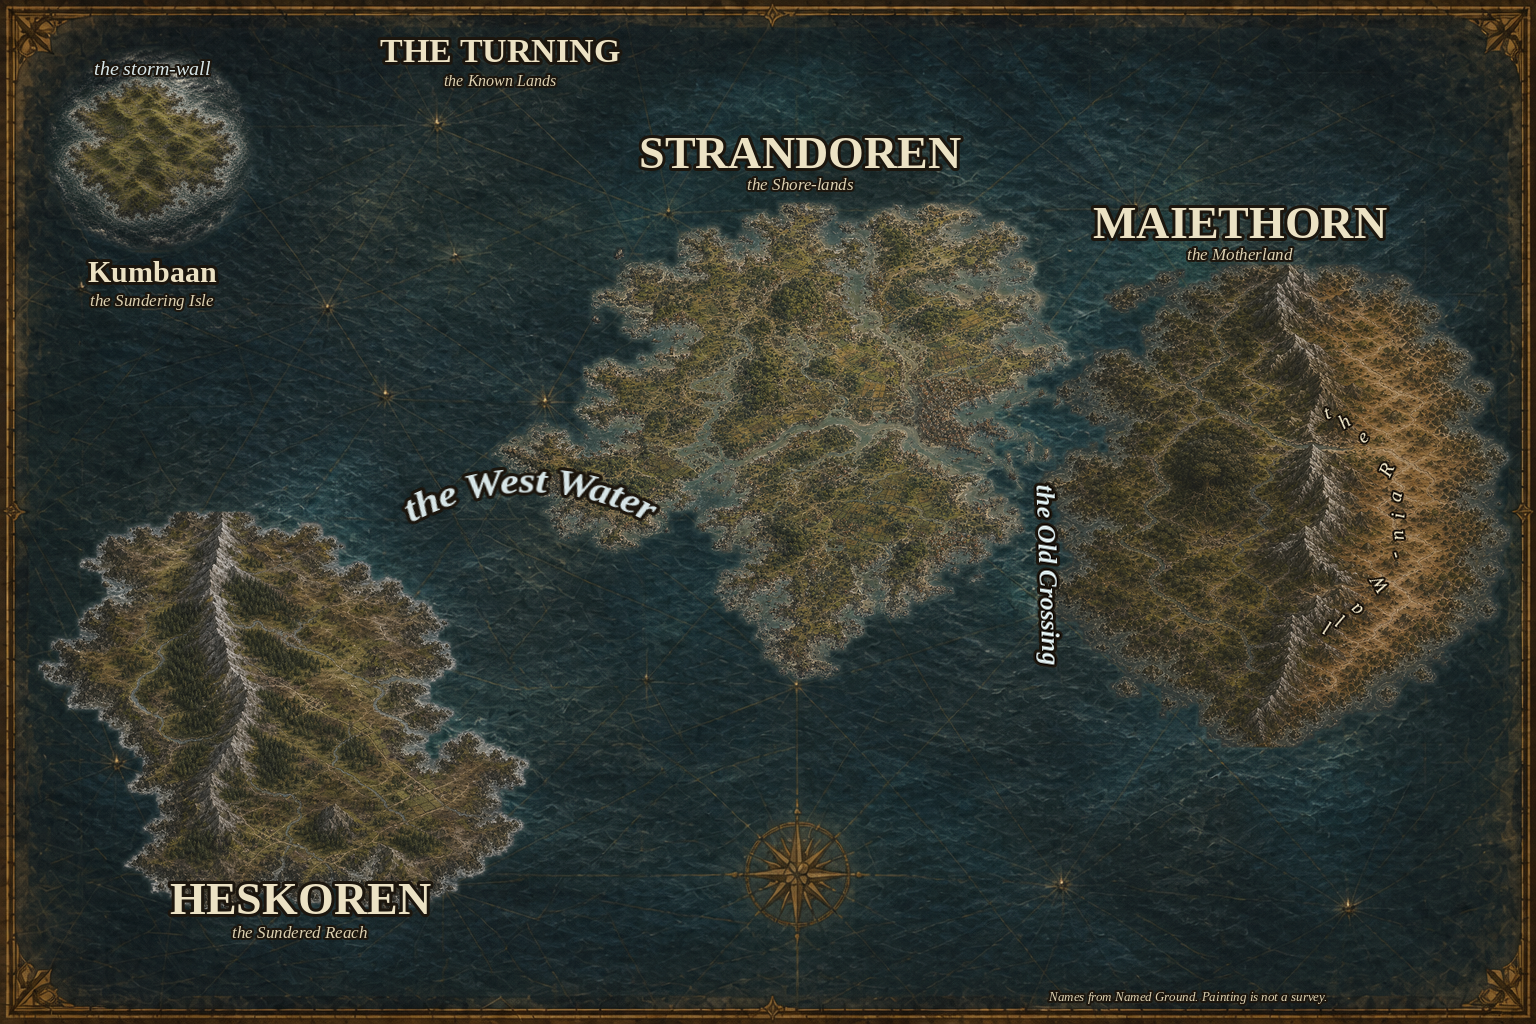
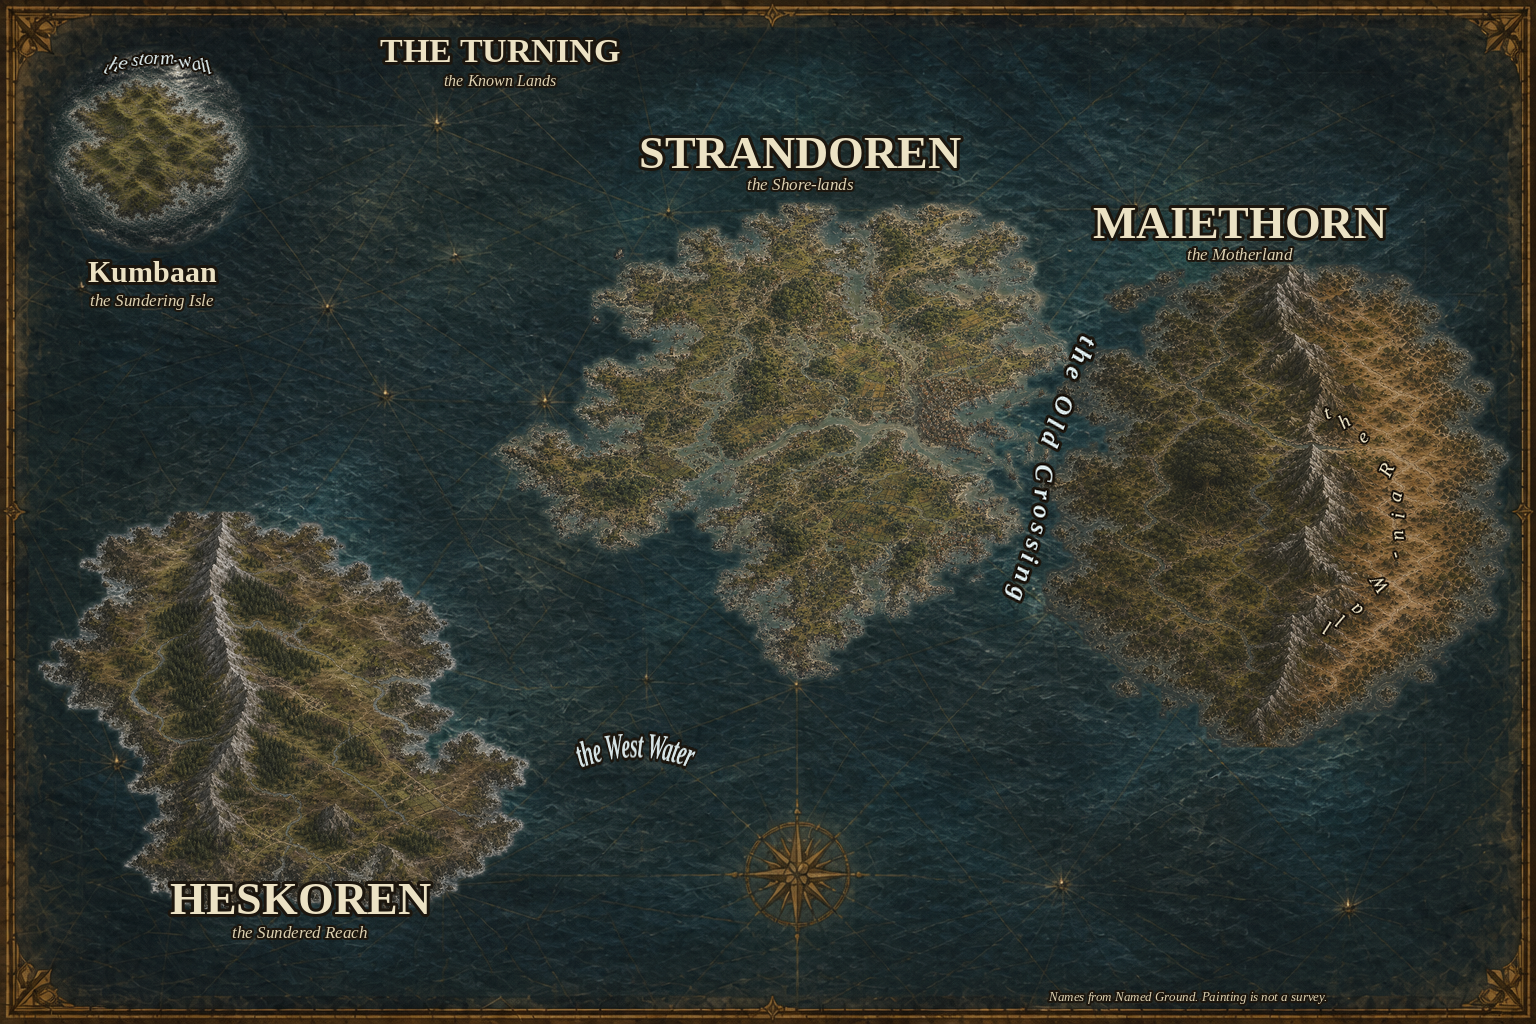
Seat world-sheet seas on water and along the channel
Drop the West Water into the southern basin so it sits in the blue
instead of across either shore. Walk the Old Crossing down the
Strandoren–Maiethorn strait. Give the storm-wall a shallow crown
over Kumbaan's foam.

diff --git a/14 - Assets/Maps/label_world_atlas.py b/14 - Assets/Maps/label_world_atlas.py
@@ -10,8 +10,9 @@ Rebuild:
 
 West is left. East is right. No fifth land. No graft on Kumbaan.
 The Rain-Wall is Maiethorn's spine, not Heskoren's highlands.
-Seas sit in the middle of their water. The storm-wall follows
-Kumbaan's foam ring.
+Seas sit in the middle of their water. The storm-wall is a
+shallow crown on Kumbaan's foam ring. The Old Crossing follows
+the strait.
 """
 
 from __future__ import annotations
@@ -326,29 +327,40 @@ def build() -> Image.Image:
     halo_text(ink, (500, 80), "the Known Lands", subtitle, TYPE_MUTED, stroke=2)
 
     # Kumbaan — name below the ring. Storm-wall is a shallow crown
-    # over the foam, not a tight horseshoe.
+    # over the north foam, not a tight horseshoe.
     halo_text(ink, (152, 272), "Kumbaan", land_small, TYPE, stroke=3)
     halo_text(ink, (152, 300), "the Sundering Isle", caption, TYPE_MUTED, stroke=2)
-    # Straight over the north foam. Any arc has read as too curved.
-    halo_text(ink, (152, 68), "the storm-wall", feature, TYPE_WATER, stroke=2)
+    paste_along_arc(
+        canvas,
+        "the storm-wall",
+        feature,
+        TYPE_WATER,
+        cx=158,
+        cy=185,
+        radius=128,
+        start_deg=114,
+        end_deg=66,
+        stroke=2,
+        tracking=1.08,
+    )
 
     # Heskoren — south-west frontier, south of the Old World pair.
     halo_text(ink, (300, 898), "HESKOREN", land, TYPE, stroke=3)
     halo_text(ink, (300, 932), "the Sundered Reach", caption, TYPE_MUTED, stroke=2)
 
-    # West Water — the wide ocean west of Strandoren and north of
-    # Heskoren. Deep arc through the middle of that blue, not a
-    # straight slug and not the north pocket under Kumbaan.
+    # West Water — southern basin between Heskoren and Strandoren.
+    # Sit in the blue, below Strandoren's south coast and east of
+    # Heskoren's north tip — not across either shore.
     warp_along_arc(
         canvas,
         "the West Water",
         water,
         TYPE_WATER,
-        cx=530,
-        cy=740,
-        radius=260,
-        start_deg=122,
-        end_deg=58,
+        cx=635,
+        cy=905,
+        radius=160,
+        start_deg=114,
+        end_deg=66,
         stroke=3,
     )
 
@@ -356,16 +368,23 @@ def build() -> Image.Image:
     halo_text(ink, (800, 152), "STRANDOREN", land, TYPE, stroke=3)
     halo_text(ink, (800, 184), "the Shore-lands", caption, TYPE_MUTED, stroke=2)
 
-    # Old Crossing — one nearly-vertical word in the actual strait
-    # between Strandoren and Maiethorn, not the north ocean above it.
-    paste_rotated(
+    # Old Crossing — in the strait itself, following the water as
+    # it pinches and drifts west toward the southern mouth.
+    paste_along_path(
         canvas,
         "the Old Crossing",
         crossing,
         TYPE_WATER,
-        (1048, 575),
-        -88,
+        [
+            (1090, 335),
+            (1065, 400),
+            (1045, 455),
+            (1042, 520),
+            (1028, 565),
+            (1016, 605),
+        ],
         stroke=3,
+        tracking=1.06,
     )
 
     # Maiethorn — far east. Name north of the wet west.

diff --git a/14 - Assets/Maps/The Atlas Sheets.md b/14 - Assets/Maps/The Atlas Sheets.md
@@ -120,7 +120,7 @@ The image-model attempt, for comparison:
 
 ## Label trial — World sheet (2026-09-03)
 
-Pillow overlay on the selected Prototype 3 world master. Seats follow [[Named Ground]] and [[The Known Map]], west → east: Kumbaan · the storm-wall · Heskoren · the West Water · Strandoren · the Old Crossing · Maiethorn · the Rain-Wall. Continent names are large land-type. Seas sit in the middle of their water: the West Water in the southern basin between Heskoren and Strandoren; the Old Crossing down the strait. The storm-wall crowns Kumbaan's foam ring. No fifth land. Decorative stars and extra painted texture stay unnamed. The Rain-Wall sits Maiethorn's spine, not Heskoren's highlands. No graft, city, or Tree named on Kumbaan. Continent epithets are the World Frame handles, not new places. Script: `14 - Assets/Maps/label_world_atlas.py`.
+Pillow overlay on the selected Prototype 3 world master. Seats follow [[Named Ground]] and [[The Known Map]], west → east: Kumbaan · the storm-wall · Heskoren · the West Water · Strandoren · the Old Crossing · Maiethorn · the Rain-Wall. Continent names are large land-type. Seas sit in the middle of their water: the West Water in the southern basin between Heskoren and Strandoren (in the blue, not across either shore); the Old Crossing in the strait, following the channel. The storm-wall is a shallow crown on Kumbaan's foam ring. No fifth land. Decorative stars and extra painted texture stay unnamed. The Rain-Wall sits Maiethorn's spine, not Heskoren's highlands. No graft, city, or Tree named on Kumbaan. Continent epithets are the World Frame handles, not new places. Script: `14 - Assets/Maps/label_world_atlas.py`.
 
 The unlabeled world sheet stays the selected handout.
 
